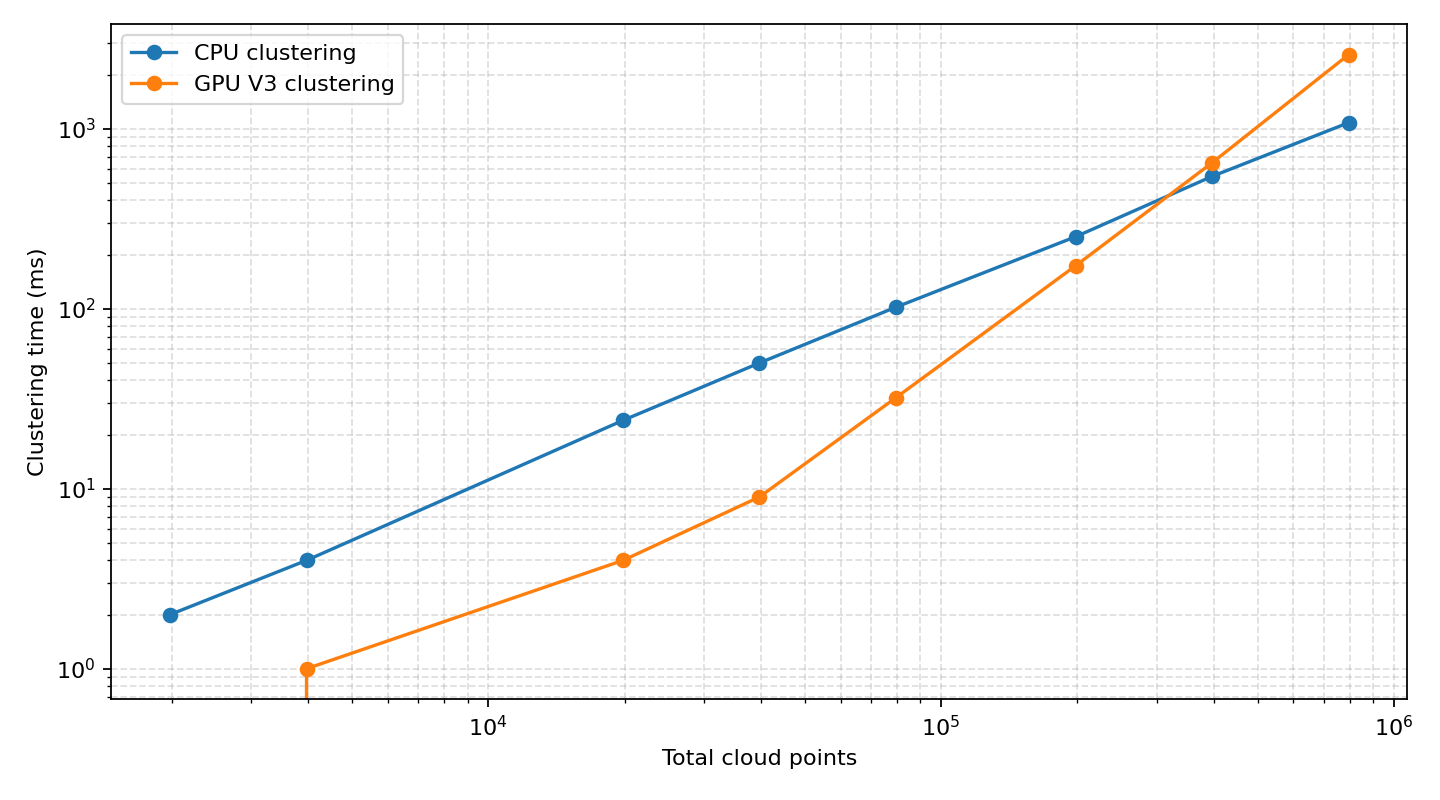
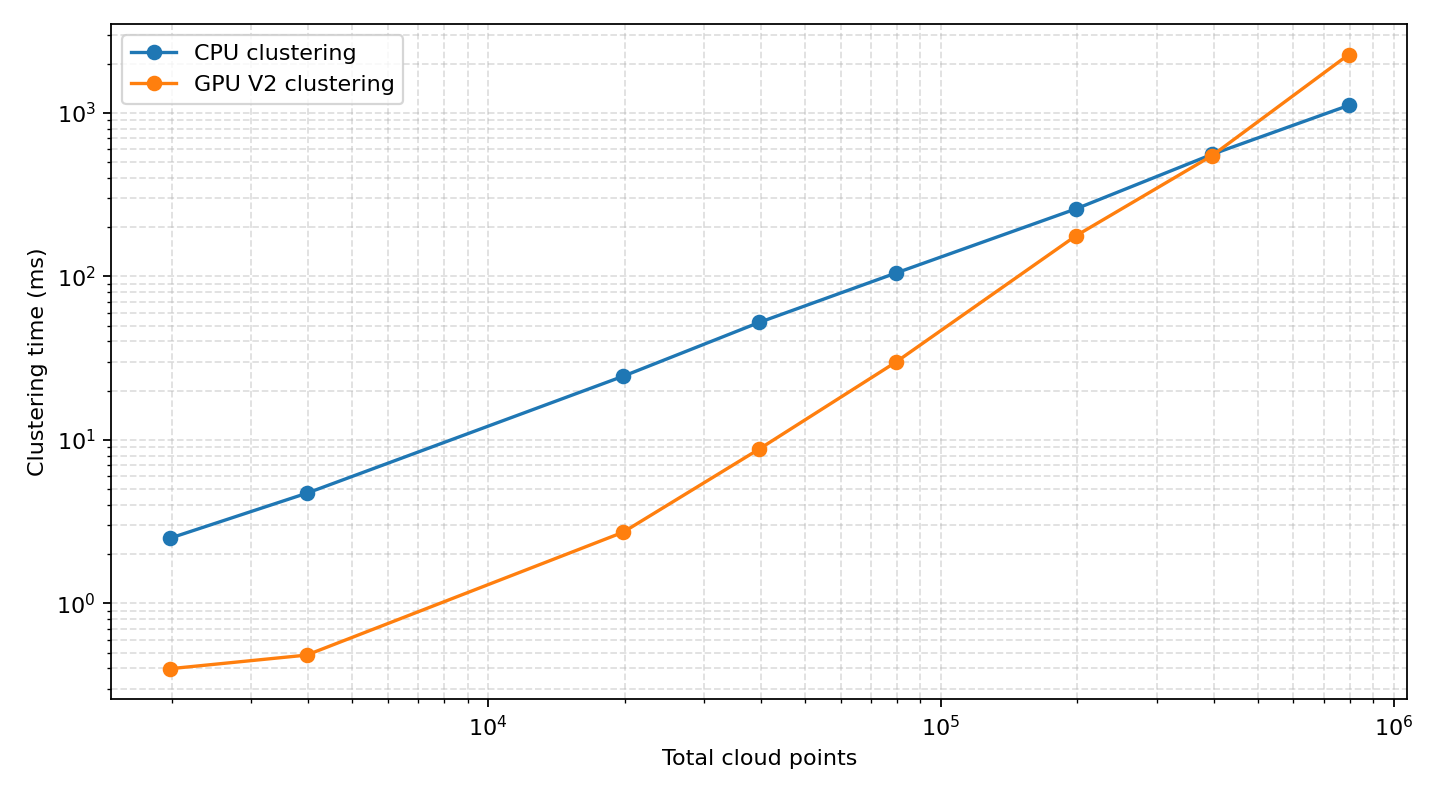
Update Readme and add benchmark results

diff --git a/src/create_benchmarks.cpp b/src/create_benchmarks.cpp
@@ -68,7 +68,7 @@ int main()
     const std::atomic<bool> interrupted{false};
     bool all_results_match_expectation = true;
     std::cout << std::fixed << std::setprecision(3);
-    std::cout << "total_cloud_points,cpu_clustering_ms,gpu_clustering_ms\n";
+    std::cout << "no_of_clusters,total_cloud_points,cpu_clustering_ms,gpu_clustering_ms\n";
 
     for (const std::size_t cluster_count : cluster_counts)
     {
@@ -86,7 +86,7 @@ int main()
             matchesReplicatedCloudExpectation(cpu_clusters, cluster_count, base_point_count, "PCL CPU") &&
             all_results_match_expectation;
 
-        std::cout << point_count << ','
+          std::cout << cluster_count << ',' << point_count << ','
               << nanosecondsToMilliseconds(elapsedNanoseconds(cpu_start, cpu_end)) << ',';
 
         std::vector<pcl::PointIndices> gpu_clusters;

diff --git a/README.md b/README.md
@@ -1,0 +1,168 @@
+# Course Project
+This is a final project for the **Coursera GPU Programming Specialization**, specifically the "CUDA Advanced Libraries" course. Throughout the specialization, each course presents a distinct set of challenges that deepen understanding of GPU programming with CUDA, including when and what to run on a GPU and how to improve the performance of well-known algorithms. This open-ended project requires students to choose their own problem and implement a solution using the GPU programming concepts learned throughout the course series.
+
+# Pointcloud Euclidean clustering
+
+## Project goals and motivations:
+With this context, the project investigates the parallel processing power of GPUs for a well-known problem: Euclidean clustering of 3D points. It is a course-level project, not a cutting-edge reimplementation or a replacement for existing implementations. Following the course guidelines, I chose a problem that I found interesting and feasible to implement within the scope of the coursework.
+
+I have regularly worked with point-cloud algorithms, including segmentation, clustering, and shape detection, mostly through the well-known PCL library. I have occasionally encountered cases where an algorithm's frame rate drops substantially when the number of input points grows by one or two orders of magnitude. Many modern 3D LiDARs produce roughly 30,000 to 60,000 points per frame. Although most algorithms process only a relevant subset of those points, some problems require analysis of the complete set. For CPU-based PCL algorithms, even those with $O(N)$ complexity, processing times can reach several seconds as the number of input points grows by one or two orders of magnitude.
+
+This led me to consider point clouds as strong candidates for parallelizing the low-level calculations used by these algorithms. To test this idea, I chose the widely used Euclidean clustering algorithm, implemented a GPU version, and compared it with PCL's CPU implementation.
+
+## Build And Run In Docker container
+
+### a) Building and a launch the dev env:
+The development environment is defined by the [dockerfile](dockerfile). It installs CUDA 12.2, CCCL, and PCL with GPU support. From the repository root on a host with Docker and the NVIDIA Container Toolkit installed, build the image using the same tag expected by `launch_container.sh`:
+
+```bash
+docker build \
+	--build-arg USER_UID="$(id -u)" \
+	--build-arg USER_GID="$(id -g)" \
+	--build-arg USERNAME="$(id -un)" \
+	--tag pcl_cuda_cccl:cu-12.2 \
+	--file dockerfile .
+```
+
+Start the GPU-enabled development container. The script mounts the current repository into `/workspace`, so run it from the repository root:
+
+```bash
+./launch_container.sh
+```
+
+### b) Build the project inside the container:
+Inside the container, configure and build the project:
+
+```bash
+cmake -S /workspace -B /workspace/build -DCMAKE_BUILD_TYPE=Release
+cmake --build /workspace/build --parallel
+```
+
+### c) Running the main:
+
+Run the main comparison with the bundled bunny point cloud. The first optional argument is the cluster tolerance; the second replicates the bunny cloud into that many separated clusters:
+
+```bash
+/workspace/build/cuda_euclidean_clustering_main 0.02 10
+```
+
+### d) Running the benchmarking:-
+Generate benchmark CSV data and plot it:
+
+```bash
+cd /workspace/build
+./create_benchmarks > benchmarks.csv
+python3 ../plot_benchmarks.py benchmarks.csv --output benchmark_times.png
+```
+
+# Implementation Overview:
+
+## Two versions of GPU implementations:
+
+### a. Naive implementation:
+`CudaEuclideanClustering::extract()` is a depth-first connected-component traversal. Euclidean clustering treats two points as connected when their Euclidean distance is less than or equal to the cluster tolerance. A cluster contains every point reachable through a chain of such connections.
+
+For each still-unvisited seed point, the implementation:
+
+1. Adds the seed to a device-side work queue.
+2. Pops one queued point and performs a PCL GPU octree radius search using the cluster tolerance.
+3. Filters returned neighbors against the visited array, appends new neighbors to the queue, and marks them visited.
+4. Repeats until the queue is empty, then copies the accumulated point indices to the host as one cluster.
+5. Starts again from the next unvisited point.
+
+## Limitations:
+This version is intentionally naive and is not an efficient GPU algorithm. It was designed to mimic the PCL's CPU version, only using the GPU where the PCL's CUDA-based API would allow. It launches a radius search for one query point at a time, downloads the selected point and neighbor count, allocates temporary buffers repeatedly, and lets the host control the queue traversal. PCL's legacy GPU radius-search wrapper also synchronizes the device after each query. Those small launches, synchronization points, host-device transfers, and repeated allocation costs dominate the actual distance calculations. As the input grows, the result is impractically high runtime despite using a GPU for individual neighbor searches.
+
+**Conclusions:** This method is not added to the benchmarking due to the above reasons.
+
+### b. All-pairs union-find implementation:
+`CudaEuclideanClustering::extractV2()` takes a different view of the same problem. Instead of repeatedly asking “what are the neighbors of this one point?”, it builds the connectivity graph implicitly by testing all unique point pairs in parallel.
+
+For every pair `(i, j)` with `i < j`, a CUDA kernel calculates squared distance. If that distance is within the tolerance, the pair is joined with a parallel union-find data structure. Each point begins in its own set:
+
+```text
+point:   0  1  2  3  4
+parent:  0  1  2  3  4
+```
+
+If the close pairs are `0-1`, `1-2`, and `3-4`, the union operations produce two connected components:
+
+```text
+parent:  0  0  0  3  3
+clusters: {0, 1, 2} and {3, 4}
+```
+
+`atomicCAS` safely merges two concurrently discovered sets. A later path-compression kernel makes every point reference its final root. The implementation sorts `(root, point_index)` pairs by root, so all indices belonging to one component become contiguous and can be copied to a `pcl::PointIndices` cluster.
+
+This removes the per-point octree search, repeated queue management, and repeated host-device transfers used by the naive version. It does not store an `N x N` distance matrix; it evaluates the upper-triangular pairs directly in a 2D CUDA launch.
+
+The cost is $O(N^2)$ distance tests. This must be kept in perspective: a cloud with one million points has roughly $5 \times 10^{11}$ unique pairs, and multi-million-point clouds require trillions of pair tests. Those sizes are generally impractical for a single current-generation LiDAR frame, however. Many modern LiDARs produce tens of thousands of points per frame, and a practical target below 100,000 points is the range considered by this project.
+
+Within that practical range, the benchmark results show the all-pairs GPU implementation outperforming PCL's CPU Euclidean clustering implementation on the test hardware. The GPU can evaluate a very large number of independent distance tests concurrently, so the quadratic work is still usable at these input sizes. This does not make the approach universally scalable: dense clusters can also cause contention in the parallel union operations, and a production implementation intended for much larger clouds should use spatial partitioning, such as a uniform grid or spatial hash, to compare only nearby points.
+
+## Benchmarking
+
+The `create_benchmarks` executable compares PCL's CPU Euclidean clustering implementation with `extractV2()`, the all-pairs GPU implementation. It writes CSV data to standard output with these columns:
+
+```text
+no_of_clusters,total_cloud_points,cpu_clustering_ms,gpu_clustering_ms
+```
+
+Run it from the build directory and redirect its CSV output:
+
+```bash
+./create_benchmarks > benchmarks.csv
+```
+
+Progress messages are written to standard error so they do not corrupt the CSV. The `plot_benchmarks.py` script reads that CSV and generates a two-curve plot of CPU and GPU clustering time against total cloud points:
+
+```bash
+python3 ../plot_benchmarks.py benchmarks.csv --output benchmark_times.png
+```
+
+The plot uses logarithmic axes because both the point counts and the all-pairs GPU runtime span large ranges.
+
+## PCL CUDA Benchmark Attempt
+
+The project also attempted to benchmark [PCL's CUDA/GPU Euclidean clustering implementation](https://pointclouds.org/documentation/classpcl_1_1gpu_1_1_euclidean_cluster_extraction.html). On the replicated-cloud inputs used here, it produced unexpected cluster results that did not agree with the known synthetic structure or with PCL's CPU implementation. Because the GPU result could not be treated as a correctness baseline for these inputs, it is not included in the timing benchmark. PCL CPU clustering remains the reference implementation used for the comparison.
+
+## Test Point Cloud And Scaling Method
+
+`/workspace/data/bunny.pcd` is the base test cloud used by the executable and benchmark. It contains points from the Stanford bunny mesh and is dense enough for clustering tests.
+
+To increase the number of points without changing the local shape of a cluster, `gridReplicate()` creates translated copies of the original bunny cloud. The copies are placed on a 3D grid with a gap slightly larger than the clustering tolerance, so each copy should remain a separate Euclidean cluster. The benchmark uses increasing copy counts to increase the total number of points while retaining a known expected cluster structure.
+
+This approach tests scaling with more points and more disconnected components without requiring a large ground-truth dataset. It does not model every property of a real LiDAR scene: the local density and geometry of every replicated cluster are identical. It is nevertheless useful for exposing the difference between the CPU KD-tree approach and the GPU all-pairs approach as input size grows.
+
+Production pipelines commonly downsample before clustering to reduce work, but this benchmark deliberately uses the original cloud. Replication can reach the same input sizes without changing the base cloud's local geometry.
+
+For every replicated input, the benchmark also validates the expected synthetic structure: it must find one cluster per bunny copy, and each returned cluster must contain the same number of points as the original bunny cloud.
+
+![CPU and V2 GPU clustering benchmark results](benchmark_times.png)
+
+The log plot shows that V2 is clearly faster through about 80,000 points, approaches the CPU result near 200,000 points, and becomes slower beyond roughly 400,000 points. This happens because V2 compares more point pairs as the cloud grows. A GPU uniform grid or spatial hash could limit comparisons to nearby points, while staged connected-components processing could reduce union-find contention.
+
+> **NOTE!!** These results were measured on an NVIDIA GeForce RTX 4080 Laptop GPU. Absolute timings and the exact crossover point can vary with GPU model, power limits, memory bandwidth, and host CPU performance. However, the overall trend should remain broadly similar on CUDA-capable GPUs because this implementation does not rely on Tensor Cores, CUDA Graphs, multi-stream execution, cooperative kernel launches, or architecture-specific instructions.
+
+## Future Improvements
+
+The all-pairs GPU implementation is useful for studying parallel connectivity, but its $O(N^2)$ pair testing limits the cloud sizes it can process. Possible GPU-focused improvements include:
+
+**Implementation improvements:**
+
+- Use a GPU uniform grid or spatial hash to compare only points in nearby cells.
+- Use GPU sorting and prefix sums to build compact cell ranges and balance work across dense and sparse regions.
+- Reduce union-find contention with staged connected-components processing, and keep label compaction and cluster-index generation on the GPU.
+- Compare with validated PCL GPU and optimized CPU baselines using equivalent parameters.
+
+**Benchmarking improvements:**
+
+The synthetic bunny benchmark could be supplemented with public point-cloud datasets: KITTI or SemanticKITTI for driving LiDAR, nuScenes or Waymo Open Dataset for urban scenes, and Stanford 3D Scanning Repository scans for indoor geometry. Preprocessing and clustering parameters should remain consistent across implementations.
+
+Timing alone does not establish that two clustering implementations produce the same partition. More rigorous correctness testing could include:
+
+- Hand-authored edge cases, such as isolated, duplicate, chain-connected, and boundary-distance points.
+- Randomized differential tests against PCL CPU clustering with identical parameters.
+- Partition metrics such as adjusted Rand index, pairwise F1 score, and per-cluster intersection-over-union when labels are available.
+- Property-based checks for size limits, unique point membership, and agreement with the tolerance graph, plus repeated CUDA error-checked runs.
+
